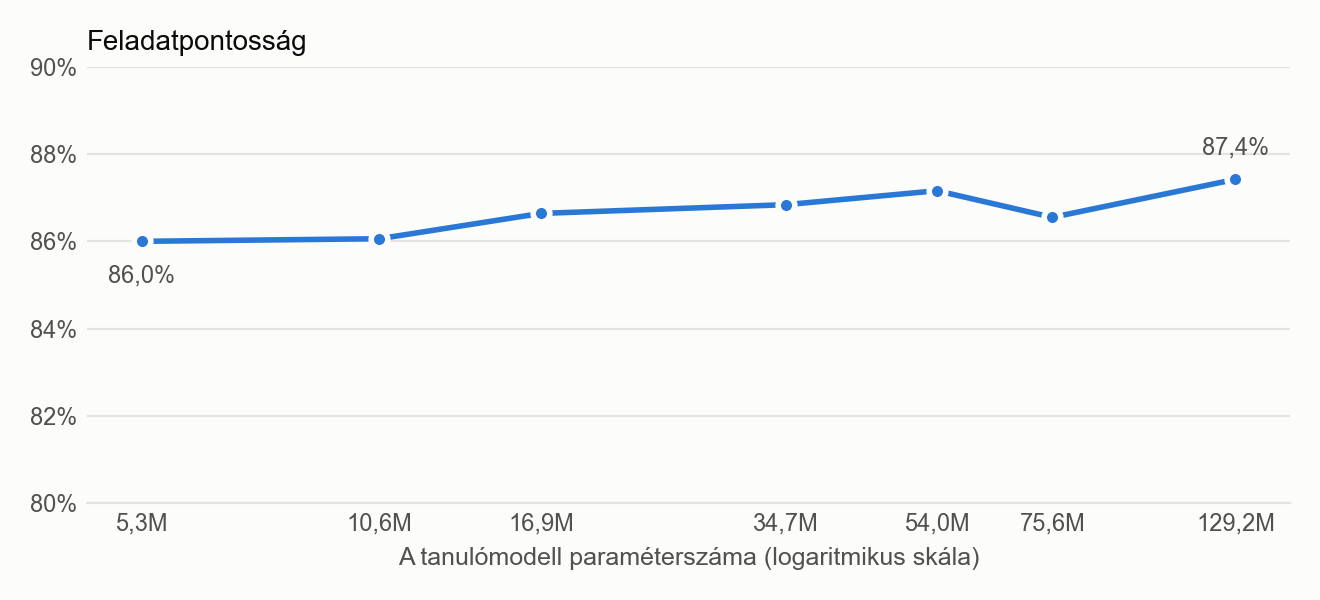
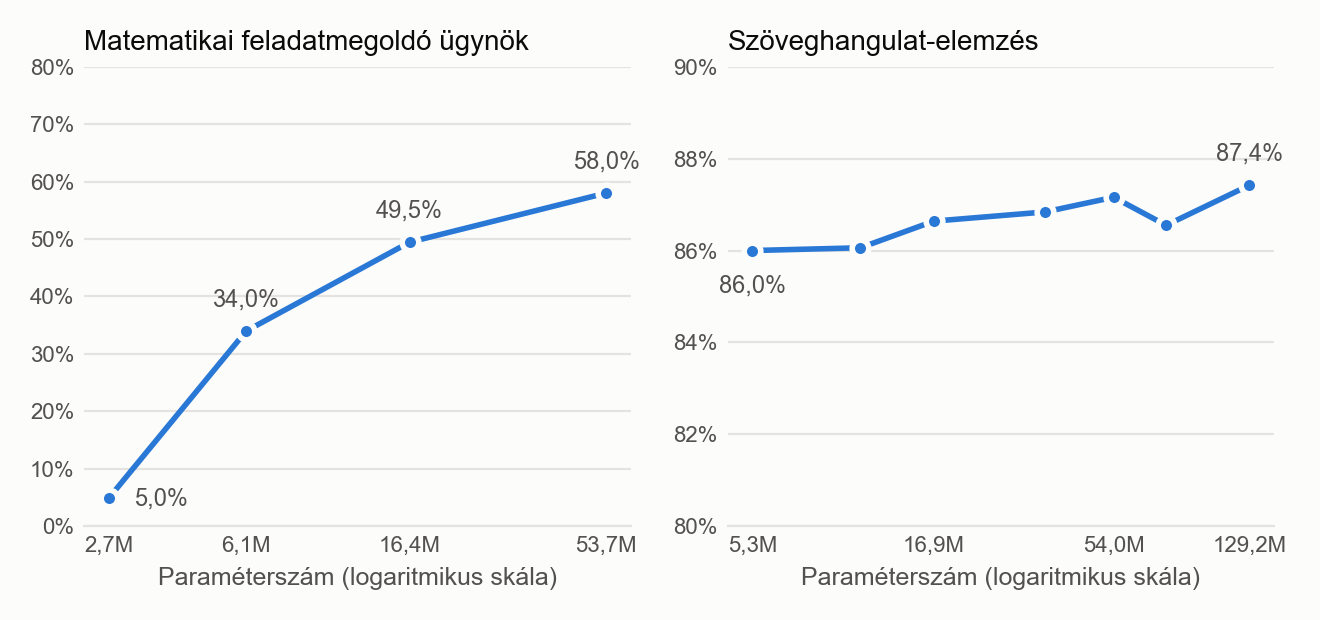
Figure 16 (thesis figure 9.3): two panels, the math tutor's 4 student sizes next to the 7 sentiment sizes (task accuracy against parameters)

diff --git a/thesis_work/grafikonok/plot_16_sentiment_size.py b/thesis_work/grafikonok/plot_16_sentiment_size.py
@@ -1,6 +1,10 @@
-"""Thesis figure 9.3 (chapter 9, section 9.3): sentiment students of 7 sizes on ~490 000 training examples (3 passes,
-one seed each, full input vocabulary, field-level task accuracy over the valid JSON replies). One series, so no legend.
-Data: thesis_work/grafikonok/data/03_sentiment_scaling_curve.csv.
+"""Thesis figure 9.3 (chapter 9, section 9.3): task accuracy against student size, two panels (small multiples, each
+with its own y axis; one series per panel, so no legend):
+- left: the math tutor's students of 4 sizes on 64 554 training examples (KL 0.9 -> 0.1, 10 passes, one seed);
+  data: experiments/results/math_full.csv (the "kd" runs);
+- right: sentiment students of 7 sizes on ~490 000 training examples (3 passes, one seed each, full input vocabulary,
+  field-level task accuracy over the valid JSON replies); data: thesis_work/grafikonok/data/03_sentiment_scaling_curve.csv.
+Every point is labelled on the left (the thesis has no table for it); the right labels its first and last point.
 Run: python thesis_work/grafikonok/plot_16_sentiment_size.py (redraws the PNG next to this file)."""
 import csv
 from pathlib import Path
@@ -11,7 +15,8 @@ import matplotlib.pyplot as plt
 import matplotlib.ticker
 
 ROOT = Path(r"D:\preference_destillation")
-CSV_PATH = ROOT / "thesis_work" / "grafikonok" / "data" / "03_sentiment_scaling_curve.csv"
+MATH_CSV = ROOT / "experiments" / "results" / "math_full.csv"
+SENTIMENT_CSV = ROOT / "thesis_work" / "grafikonok" / "data" / "03_sentiment_scaling_curve.csv"
 OUTPUT = ROOT / "thesis_work" / "grafikonok" / "16_sentiment_size.png"
 
 SURFACE = "#fcfcfb"
@@ -20,34 +25,46 @@ TEXT_SECONDARY = "#52514e"
 GRID = "#e4e3df"
 SERIES = "#2a78d6"
 
-with open(CSV_PATH, encoding="utf-8") as file:
-    points = sorted((float(row["parameters_m"]), float(row["task_accuracy"])) for row in csv.DictReader(file))
-sizes = [size for size, _ in points]
-accuracies = [accuracy for _, accuracy in points]
+with open(MATH_CSV, encoding="utf-8") as file:
+    math_points = sorted((int(row["parameters"]) / 1e6, float(row["task_accuracy_final"]) * 100)
+                         for row in csv.DictReader(file) if row["arm"] == "kd")
+with open(SENTIMENT_CSV, encoding="utf-8") as file:
+    sentiment_points = sorted((float(row["parameters_m"]), float(row["task_accuracy"])) for row in csv.DictReader(file))
 
 plt.rcParams.update({"font.family": "Arial", "font.size": 10})
-figure, axis = plt.subplots(figsize=(6.6, 3.0), dpi=200)
+figure, (math_axis, sentiment_axis) = plt.subplots(1, 2, figsize=(6.6, 3.1), dpi=200)
 figure.patch.set_facecolor(SURFACE)
-axis.plot(sizes, accuracies, color=SERIES, linewidth=2, marker="o", markersize=6,
-          markeredgecolor=SURFACE, markeredgewidth=2, zorder=2)
-for (size, accuracy), offset, align in (((sizes[0], accuracies[0]), (0, -15), "center"),
-                                        ((sizes[-1], accuracies[-1]), (0, 9), "center")):
-    axis.annotate(f"{accuracy:.1f}%".replace(".", ","), (size, accuracy), textcoords="offset points",
-                  xytext=offset, ha=align, fontsize=8.5, color=TEXT_SECONDARY)
-axis.set_xscale("log")
-axis.set_xticks(sizes)
-axis.xaxis.set_major_formatter(matplotlib.ticker.FuncFormatter(lambda value, _position: f"{value:.1f}M".replace(".", ",")))
-axis.xaxis.set_minor_locator(matplotlib.ticker.NullLocator())
-axis.set_ylim(80, 90)
-axis.yaxis.set_major_formatter(matplotlib.ticker.FuncFormatter(lambda value, _position: f"{value:g}%"))
-axis.set_facecolor(SURFACE)
-axis.set_title("Feladatpontosság", color=TEXT_PRIMARY, fontsize=10, loc="left")
-axis.set_xlabel("A tanulómodell paraméterszáma (logaritmikus skála)", color=TEXT_SECONDARY, fontsize=9)
-for spine in ("top", "right", "left"):
-    axis.spines[spine].set_visible(False)
-axis.spines["bottom"].set_color(GRID)
-axis.grid(axis="y", color=GRID, linewidth=0.8)
-axis.tick_params(colors=TEXT_SECONDARY, length=0, labelsize=8.5)
+panels = ((math_axis, math_points, "Matematikai feladatmegoldó ügynök", (0, 80), "all"),
+          (sentiment_axis, sentiment_points, "Szöveghangulat-elemzés", (80, 90), "ends"))
+for axis, points, title, limits, labels in panels:
+    sizes = [size for size, _ in points]
+    accuracies = [accuracy for _, accuracy in points]
+    axis.plot(sizes, accuracies, color=SERIES, linewidth=2, marker="o", markersize=6,
+              markeredgecolor=SURFACE, markeredgewidth=2, zorder=2)
+    chosen = range(len(points)) if labels == "all" else (0, len(points) - 1)
+    for index in chosen:
+        if labels == "ends" and index == 0:
+            offset, align = (0, -15), "center"
+        elif labels == "all" and index == 0:
+            offset, align = (9, -3), "left"
+        else:
+            offset, align = (0, 9), "center"
+        axis.annotate(f"{accuracies[index]:.1f}%".replace(".", ","), (sizes[index], accuracies[index]),
+                      textcoords="offset points", xytext=offset, ha=align, fontsize=8.5, color=TEXT_SECONDARY)
+    axis.set_xscale("log")
+    axis.set_xticks(sizes if labels == "all" else sizes[::2])   # every other size on the right, or the ticks collide
+    axis.xaxis.set_major_formatter(matplotlib.ticker.FuncFormatter(lambda value, _position: f"{value:.1f}M".replace(".", ",")))
+    axis.xaxis.set_minor_locator(matplotlib.ticker.NullLocator())
+    axis.set_ylim(*limits)
+    axis.yaxis.set_major_formatter(matplotlib.ticker.FuncFormatter(lambda value, _position: f"{value:g}%"))
+    axis.set_facecolor(SURFACE)
+    axis.set_title(title, color=TEXT_PRIMARY, fontsize=10, loc="left")
+    axis.set_xlabel("Paraméterszám (logaritmikus skála)", color=TEXT_SECONDARY, fontsize=9)
+    for spine in ("top", "right", "left"):
+        axis.spines[spine].set_visible(False)
+    axis.spines["bottom"].set_color(GRID)
+    axis.grid(axis="y", color=GRID, linewidth=0.8)
+    axis.tick_params(colors=TEXT_SECONDARY, length=0, labelsize=8)
 figure.tight_layout()
 figure.savefig(OUTPUT, facecolor=SURFACE)
 print(f"saved {OUTPUT}")
